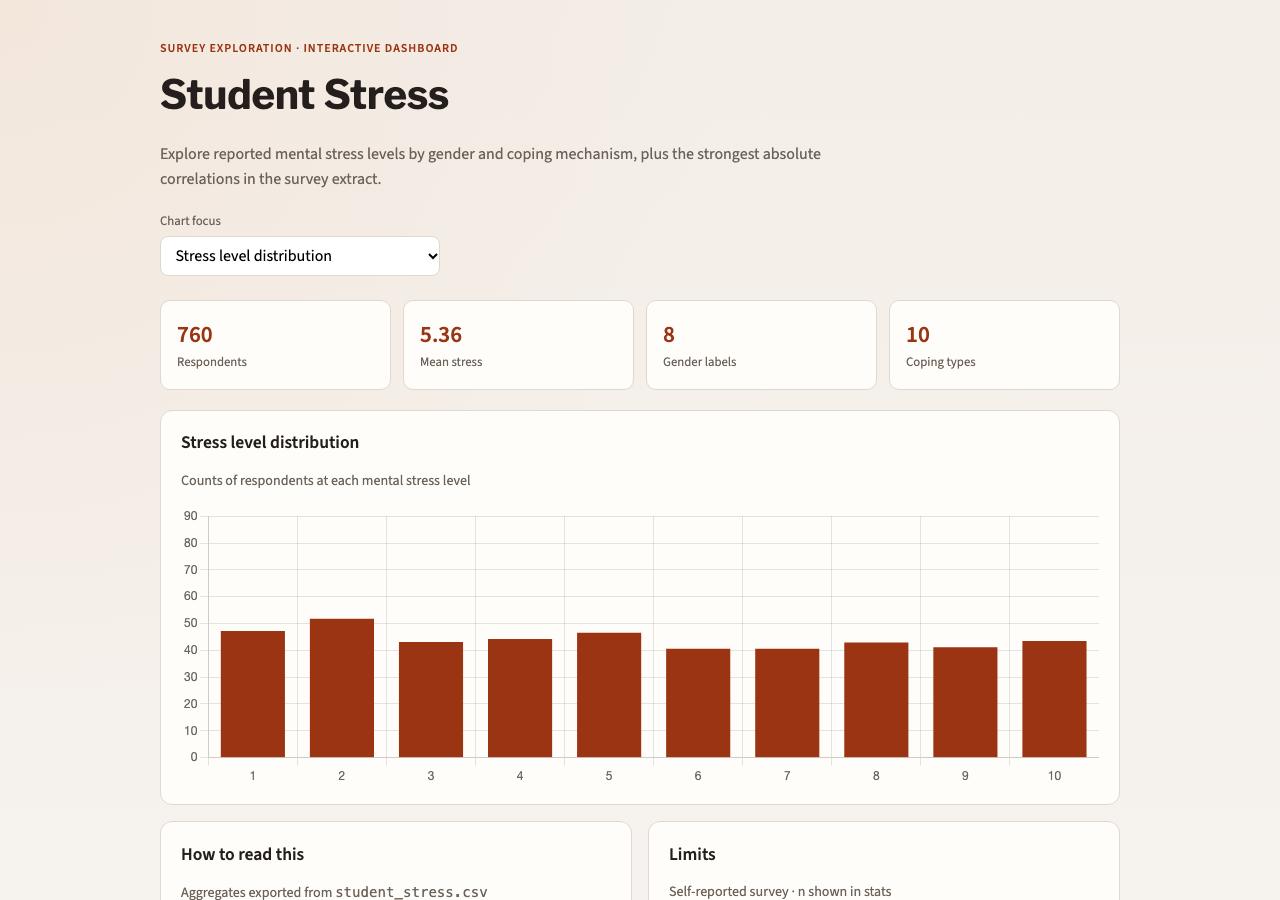
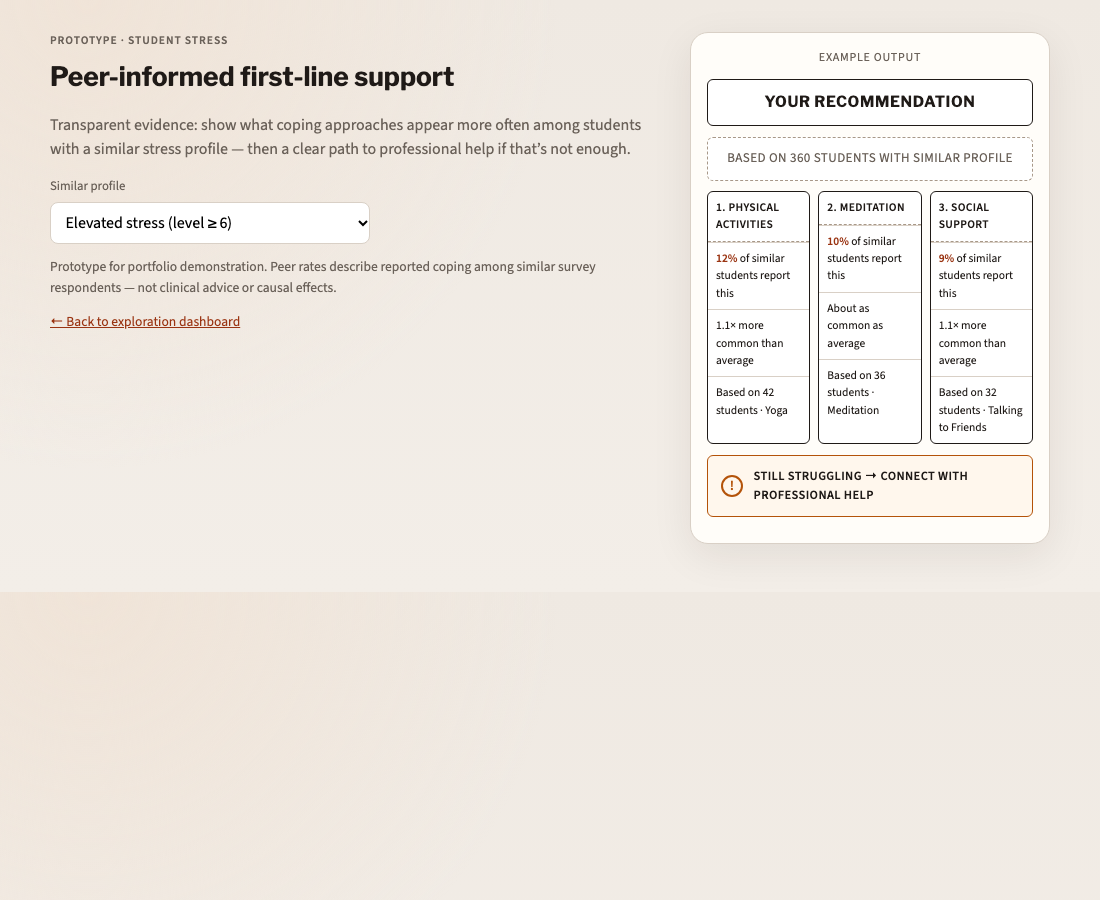
Polish home CTAs, author tagline, and student-stress visual.
Use text links and compact thumbs on the front page; point the project page at the recommendation prototype.

diff --git a/index.html b/index.html
@@ -11,21 +11,28 @@ excerpt: "Mining patterns, building dashboards, and writing short takes on data 
 
 <p class="archive__subtitle">Featured projects</p>
 
-<ul class="taxonomy__index">
+<ul class="taxonomy__index featured-projects">
   {% for project in projects limit:6 %}
-    <li>
-      <a href="{{ project.url | relative_url }}">
-        <strong>{{ project.title }}</strong>
-        {% if project.status %}
-          <span class="taxonomy__count">{{ project.status }}</span>
-        {% endif %}
-      </a>
-      {% if project.excerpt %}<br>{{ project.excerpt | markdownify | strip_html | truncate: 140 }}{% endif %}
+    <li class="featured-projects__item">
+      {% if project.visual_image %}
+        <a class="featured-projects__thumb" href="{{ project.url | relative_url }}">
+          <img src="{{ project.visual_image | relative_url }}" alt="">
+        </a>
+      {% endif %}
+      <div class="featured-projects__text">
+        <a href="{{ project.url | relative_url }}">
+          <strong>{{ project.title }}</strong>
+          {% if project.status %}
+            <span class="taxonomy__count">{{ project.status }}</span>
+          {% endif %}
+        </a>
+        {% if project.excerpt %}<br>{{ project.excerpt | markdownify | strip_html | truncate: 140 }}{% endif %}
+      </div>
     </li>
   {% endfor %}
 </ul>
 
-<p><a href="{{ '/projects/' | relative_url }}" class="btn btn--primary">All projects</a></p>
+<p><a href="{{ '/projects/' | relative_url }}">All projects →</a></p>
 
 <p class="archive__subtitle">Latest posts</p>
 

diff --git a/assets/css/main.scss b/assets/css/main.scss
@@ -55,3 +55,53 @@
   color: #4a5568;
   margin: 0;
 }
+
+/* Author sidebar: tagline-as-name should wrap cleanly */
+.author__name {
+  font-size: 0.95rem !important;
+  line-height: 1.35 !important;
+  font-weight: 600 !important;
+}
+
+.author__bio:empty {
+  display: none;
+}
+
+/* Home featured list: compact thumbs; full visuals stay on project sub-pages */
+.featured-projects__item {
+  display: flex;
+  gap: 0.85rem;
+  align-items: flex-start;
+  margin-bottom: 1rem;
+}
+
+.featured-projects__thumb {
+  flex: 0 0 120px;
+  display: block;
+  border-radius: 6px;
+  overflow: hidden;
+  border: 1px solid #e2e8f0;
+  background: #f8fafc;
+}
+
+.featured-projects__thumb img {
+  display: block;
+  width: 120px;
+  height: 76px;
+  object-fit: cover;
+}
+
+.featured-projects__text {
+  flex: 1;
+  min-width: 0;
+}
+
+@media (max-width: 600px) {
+  .featured-projects__thumb {
+    flex-basis: 88px;
+  }
+  .featured-projects__thumb img {
+    width: 88px;
+    height: 56px;
+  }
+}

diff --git a/_projects/student-stress.md b/_projects/student-stress.md
@@ -1,6 +1,6 @@
 ---
 title: "Student Stress Analysis"
-excerpt: "Survey EDA, group tests, and association rules — plus an interactive stress dashboard."
+excerpt: "Survey EDA plus a peer-recommendation prototype — transparent first-line support with a path to professional help."
 date: 2025-10-15
 status: complete
 category: dashboard
@@ -12,31 +12,33 @@ visual_image: "/assets/images/projects/student-stress.png"
 
 **Status:** Complete · **Tools:** {{ page.tools }}
 
-[View code]({{ page.repo_url }}) · [Dashboard]({{ page.demo_url }})
+[View code]({{ page.repo_url }}) · [Dashboard]({{ page.demo_url }}) · [Recommendation prototype](https://github.com/ynhi-ng/data-mining-projects/blob/main/student_stress/recommend.html)
 
 ## Final visual
 
 {% if page.visual_image %}
 <figure class="project-visual">
-  <img src="{{ page.visual_image | relative_url }}" alt="Student stress dashboard">
-  <figcaption class="project-visual__caption">Interactive dashboard — stress distribution, gender, coping, correlations (<code>student_stress/index.html</code>).</figcaption>
+  <img src="{{ page.visual_image | relative_url }}" alt="Student stress recommendation prototype">
+  <figcaption class="project-visual__caption">Peer recommendation prototype — similar-profile coping cards + professional referral (<code>recommend.html</code>).</figcaption>
 </figure>
 {% else %}
-<p>Dashboard: <code>student_stress/index.html</code> (optional Shiny <code>app.R</code>).</p>
+<p>Prototype: <code>student_stress/recommend.html</code> · exploration dashboard: <code>index.html</code>.</p>
 {% endif %}
 
 ## Problem & context
 
-What factors relate to students' reported mental stress levels, and how do coping
-mechanisms and demographics show up in survey data?
+What factors relate to students' reported mental stress levels, and how can we
+surface transparent, peer-based first-line coping ideas — with a clear path to
+professional help if someone is still struggling?
 
 ## Data & methodology
 
 - Survey tables kept local (see README); companion UK survey analyses
 - EDA, correlations, t-tests / ANOVA, association rules
-- Chart.js dashboard (+ optional Shiny filters)
+- Chart.js exploration dashboard + **recommendation prototype** that ranks
+  Social Support / Physical Activities / Meditation among similar-stress peers
 
 ## Limits & next steps
 
-- Self-reported survey data; associations are not causal
-- Dashboard uses pre-aggregated exports; extend filters as needed
+- Self-reported survey data; rates are descriptive, not causal or clinical advice
+- Prototype uses simple cohort filters; next step could be richer similarity matching
